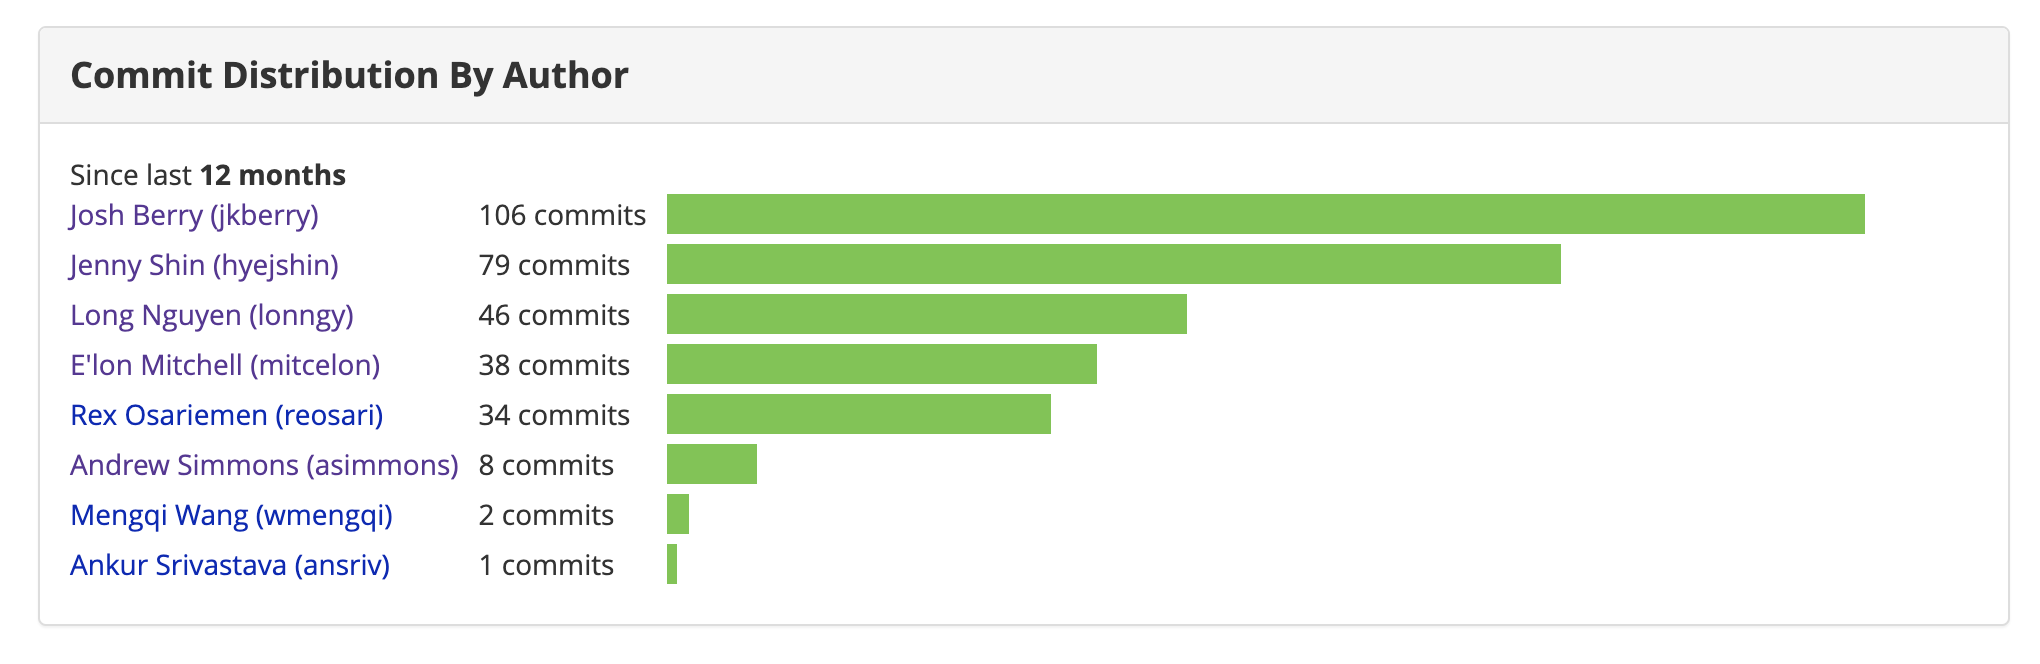
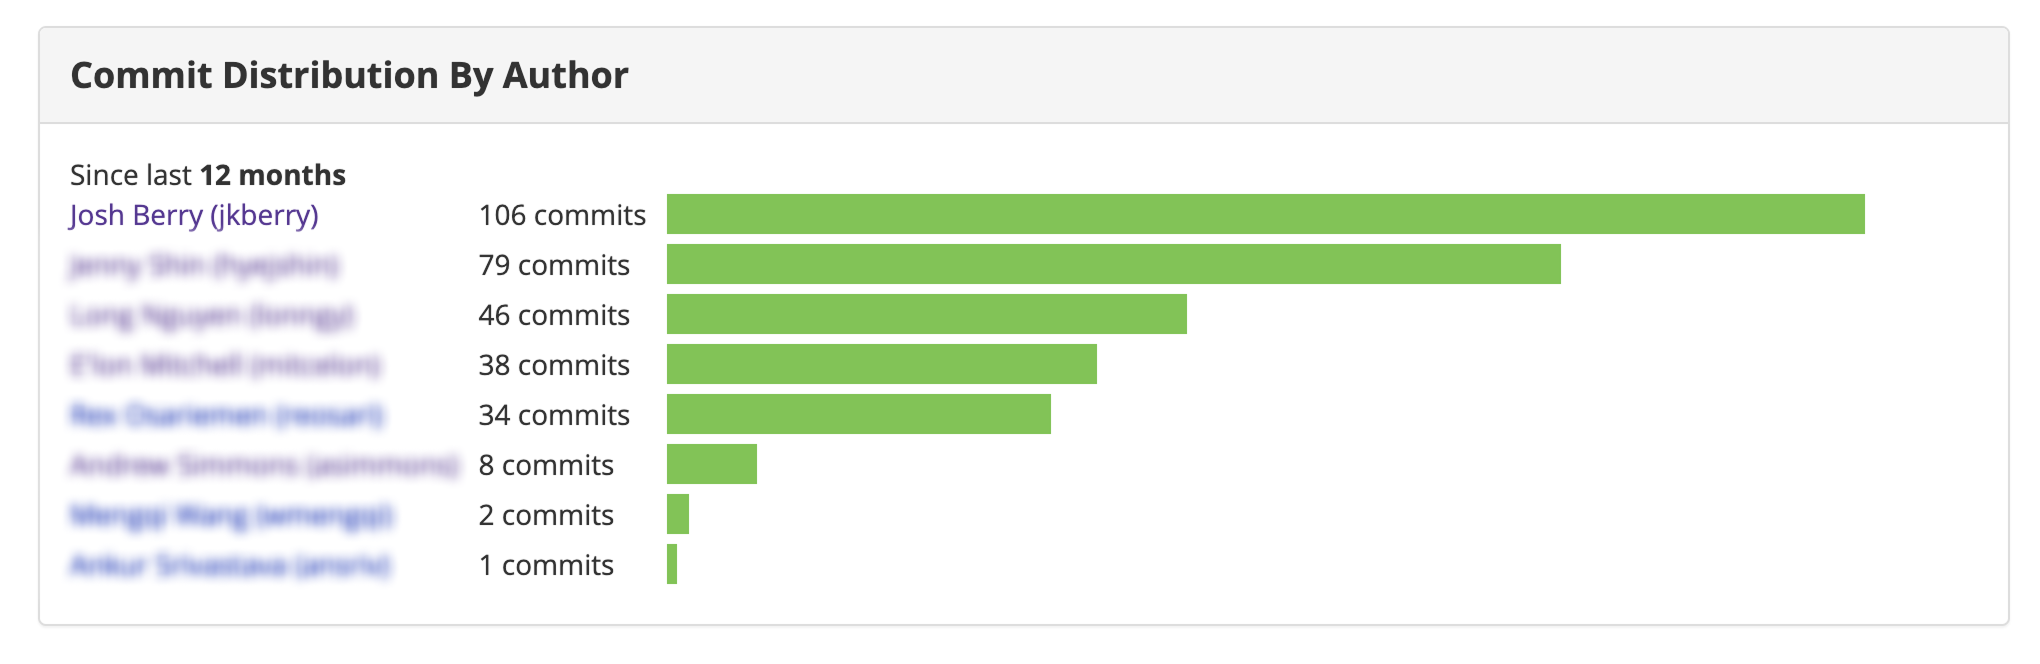
Replace commit chart image and add lightbox

diff --git a/index.html b/index.html
@@ -759,6 +759,42 @@
           grid-template-columns: 1fr;
         }
       }
+      /* ─── Lightbox ─── */
+      .lightbox-trigger {
+        cursor: zoom-in;
+        display: block;
+      }
+      #lightbox {
+        display: none;
+        position: fixed;
+        inset: 0;
+        z-index: 20000;
+        background: rgba(13,13,13,.88);
+        align-items: center;
+        justify-content: center;
+        padding: 32px;
+      }
+      #lightbox.open { display: flex; }
+      #lightbox img {
+        max-width: 100%;
+        max-height: 100%;
+        object-fit: contain;
+        border-radius: 3px;
+        box-shadow: 0 24px 80px rgba(0,0,0,.5);
+      }
+      #lightbox-close {
+        position: absolute;
+        top: 20px; right: 24px;
+        font-family: var(--mono);
+        font-size: 13px;
+        letter-spacing: .08em;
+        color: rgba(255,255,255,.55);
+        background: none;
+        border: none;
+        cursor: pointer;
+        transition: color .15s;
+      }
+      #lightbox-close:hover { color: #fff; }
     </style>
   </head>
   <body>
@@ -855,8 +891,8 @@
             <span class="tag">TypeScript</span>
           </div>
         </div>
-        <div class="work-image-col">
-          <img src="images/affinity-groups-commits.png" alt="Commit distribution chart showing Josh Berry leading with 106 commits, ahead of all other contributors" class="work-image">
+        <div class="work-image-col" style="display: flex; flex-direction: column; justify-content: center;">
+          <img src="images/affinity-groups-commits.png" alt="Commit distribution chart showing Josh Berry leading with 106 commits, ahead of all other contributors" class="work-image lightbox-trigger" style="height: auto; object-fit: contain;" data-lightbox="images/affinity-groups-commits.png">
           <p style="font-family: var(--mono); font-size: 10px; font-weight: 300; line-height: 1.6; color: rgba(13,13,13,.45); margin-top: 8px; padding: 0 4px;">I was lead developer for ~3 months. This chart was taken ~6 months later — more contributors, project still active — and I still led in total commits.</p>
         </div>
       </a>
@@ -1217,6 +1253,35 @@
         { threshold: 0.1 },
       );
       document.querySelectorAll(".reveal").forEach((el) => io.observe(el));
+      // ── Lightbox ──
+      const lightbox = document.getElementById("lightbox");
+      const lightboxImg = document.getElementById("lightbox-img");
+
+      document.querySelectorAll("[data-lightbox]").forEach((el) => {
+        el.addEventListener("click", (e) => {
+          e.preventDefault();
+          e.stopPropagation();
+          lightboxImg.src = el.dataset.lightbox;
+          lightbox.classList.add("open");
+        });
+      });
+
+      document.getElementById("lightbox-close").addEventListener("click", () => {
+        lightbox.classList.remove("open");
+      });
+
+      lightbox.addEventListener("click", (e) => {
+        if (e.target === lightbox) lightbox.classList.remove("open");
+      });
+
+      document.addEventListener("keydown", (e) => {
+        if (e.key === "Escape") lightbox.classList.remove("open");
+      });
     </script>
+
+    <div id="lightbox">
+      <button id="lightbox-close">ESC / close ✕</button>
+      <img id="lightbox-img" src="" alt="Enlarged view">
+    </div>
   </body>
 </html>
